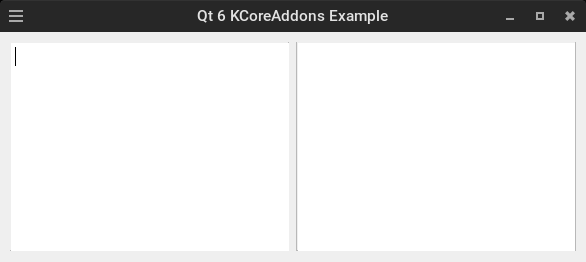
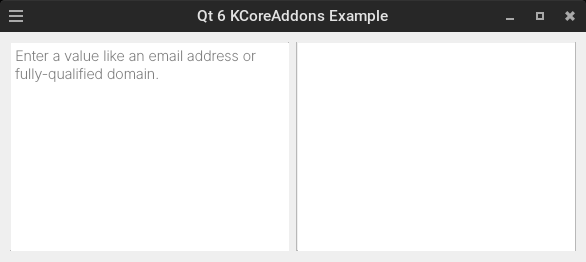
kcoreaddons: Add placeholder text

Changed region(s): [[0.0, 0.1832, 0.43, 0.3053]]

diff --git a/src/libraries/extras/kcoreaddons/main.c b/src/libraries/extras/kcoreaddons/main.c
@@ -28,12 +28,12 @@ int main(int argc, char* argv[]) {
     q_mainwindow_set_central_widget(window, widget);
     q_widget_set_layout(widget, layout);
 
+    htmlview = q_textbrowser_new2();
     text_edit = q_textedit_new2();
     q_textedit_set_accept_rich_text(text_edit, false);
+    q_textedit_set_placeholder_text(text_edit, "Enter a value like an email address or fully-qualified domain.");
 
     q_hboxlayout_add_widget(layout, text_edit);
-
-    htmlview = q_textbrowser_new2();
     q_hboxlayout_add_widget(layout, htmlview);
 
     timer = q_timer_new2(qapp);
